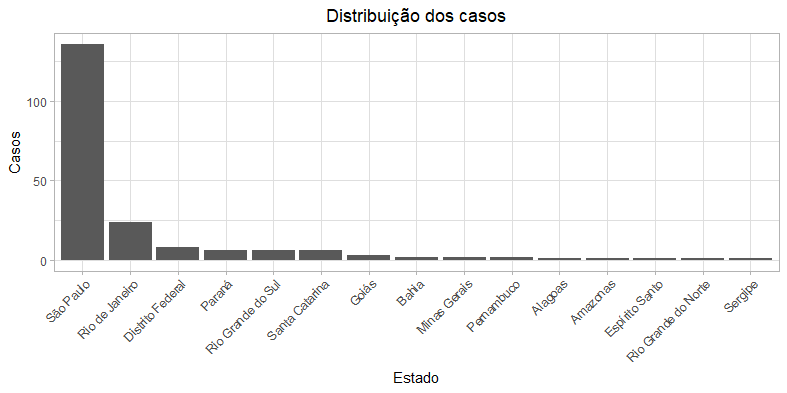
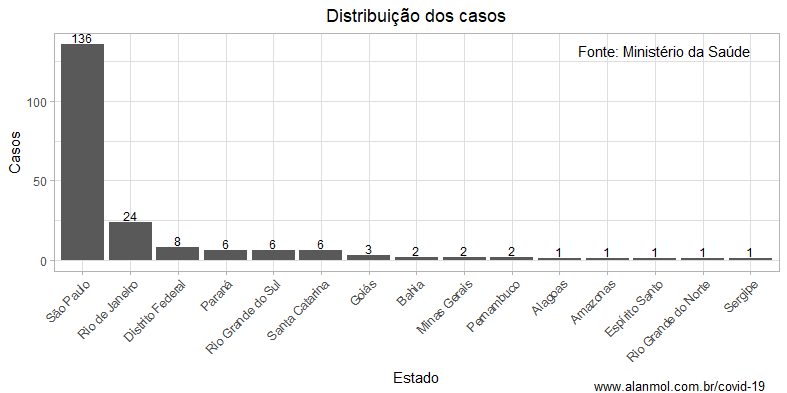
Atualiza fonte dos dados em texto, gráficos comparação

diff --git a/covid-19/index.html b/covid-19/index.html
@@ -25,9 +25,11 @@
     <div id="main_content_wrap" class="outer">
       <section id="main_content" class="inner">
         <h3>Fonte dos dados</h3>
-            <p>Todos os dados utilizados para criação dos gráficos foram retirados do site do Ministério da Saúde:</p>
+            <p>Os dados utilizados para criação dos gráficos com informações por estado foram retirados do site do Ministério da Saúde:</p>
 			<p><a href="http://plataforma.saude.gov.br/novocoronavirus/">http://plataforma.saude.gov.br/novocoronavirus/</a></p>
 			
+			<p>Os dados utilizados para a comparação com outros países foram retirados do projeto Our World in Data, da Universidade de Oxford:</p>
+			<p><a href="https://ourworldindata.org/coronavirus-source-data">https://ourworldindata.org/coronavirus-source-data</a></p>
 			
 		<h3 id="sumario">Gráficos</h3>
 		<ol>
